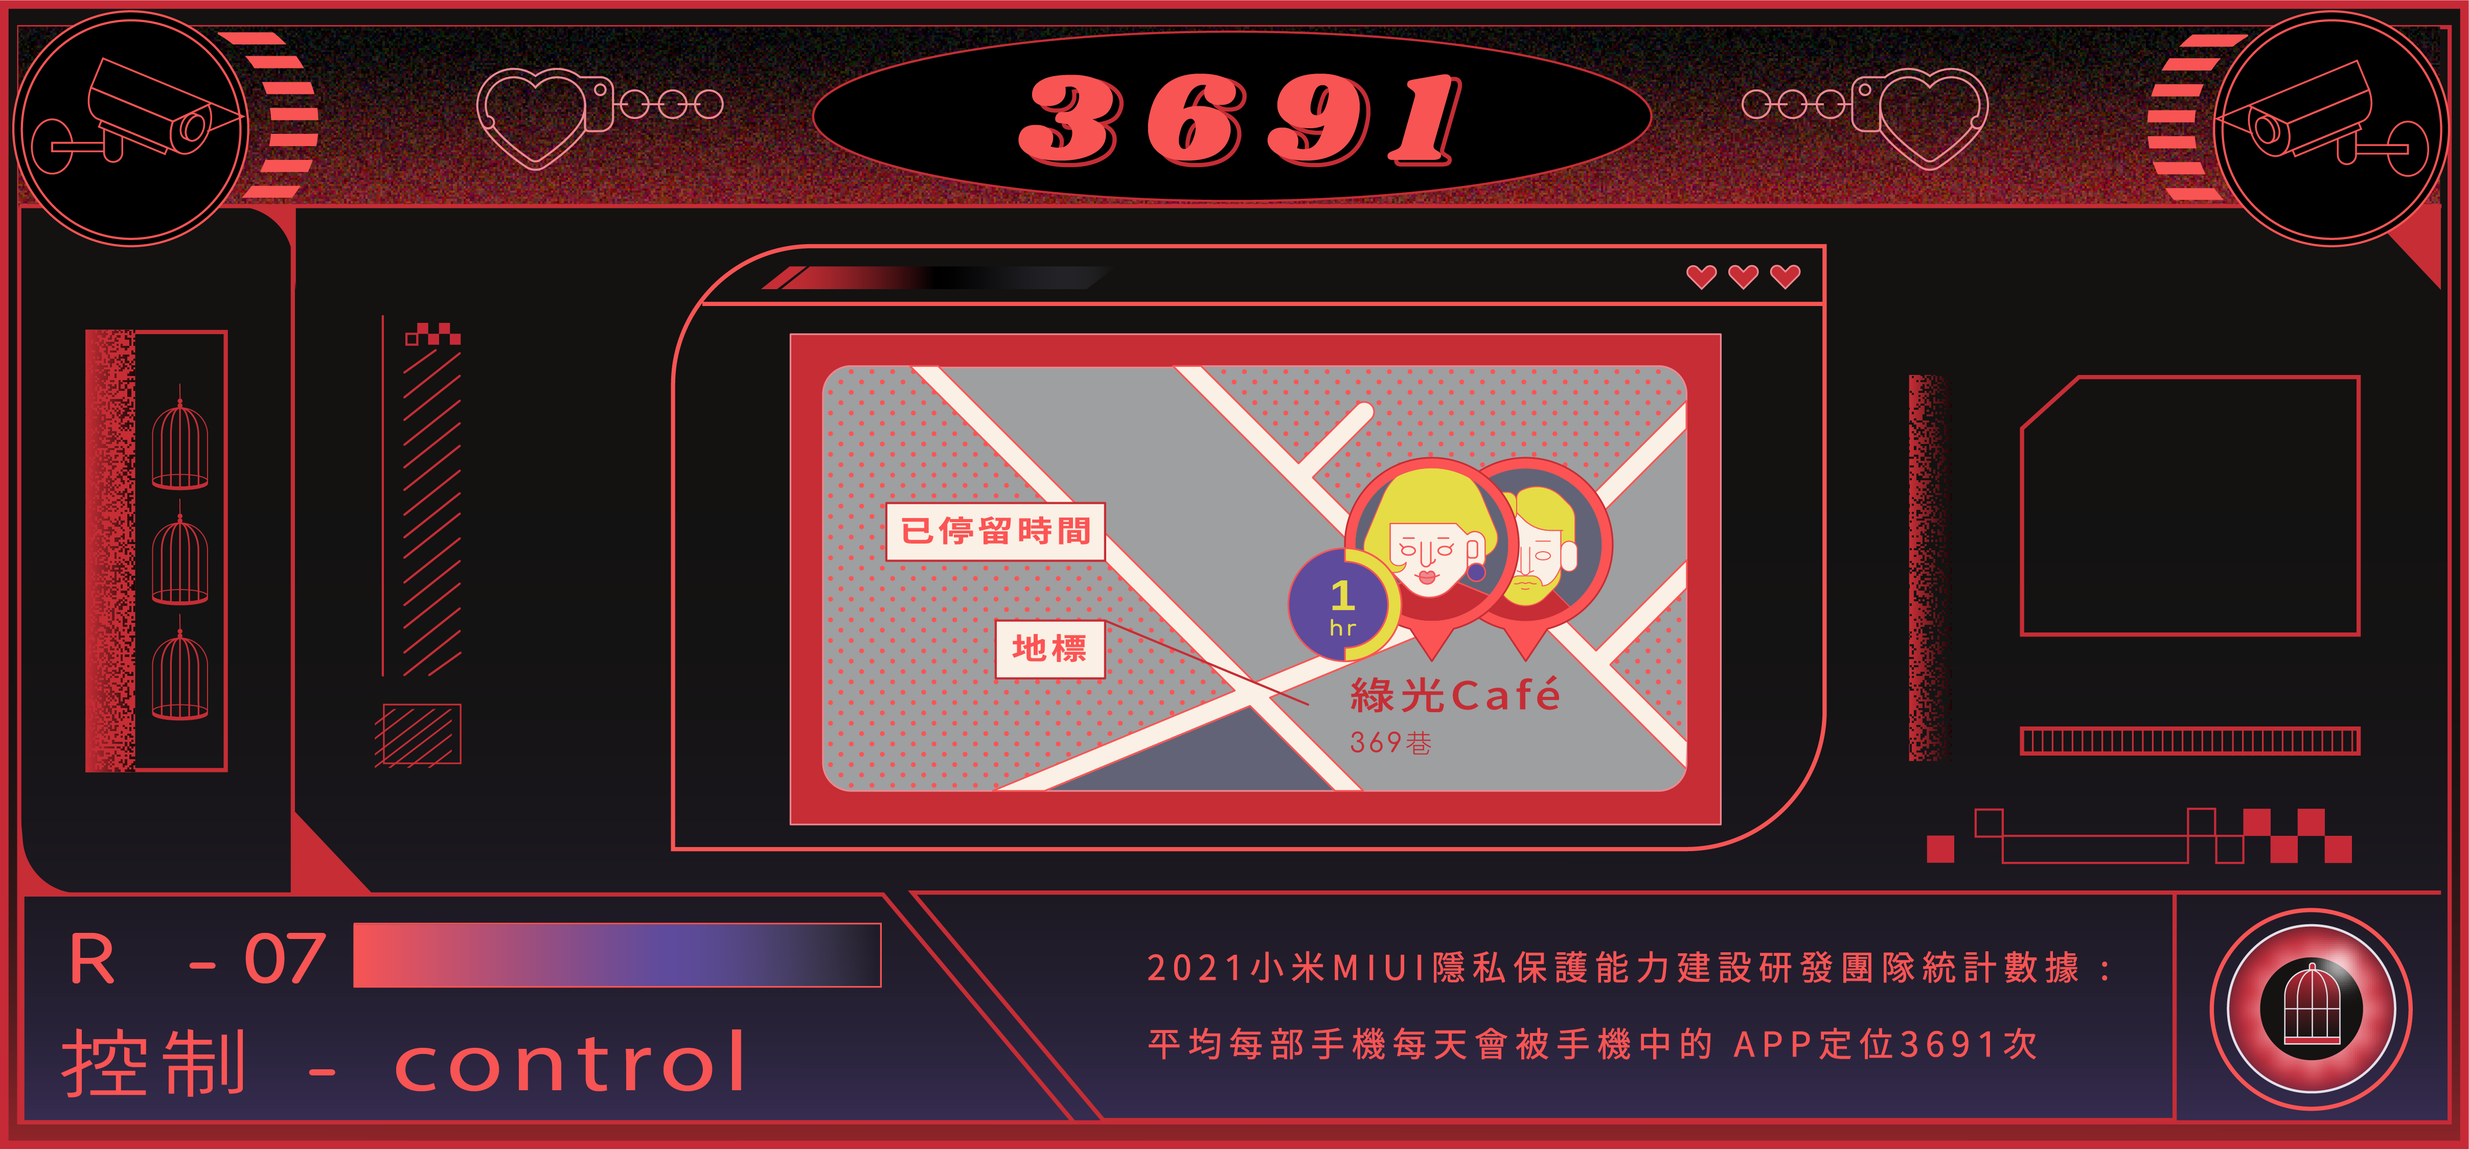
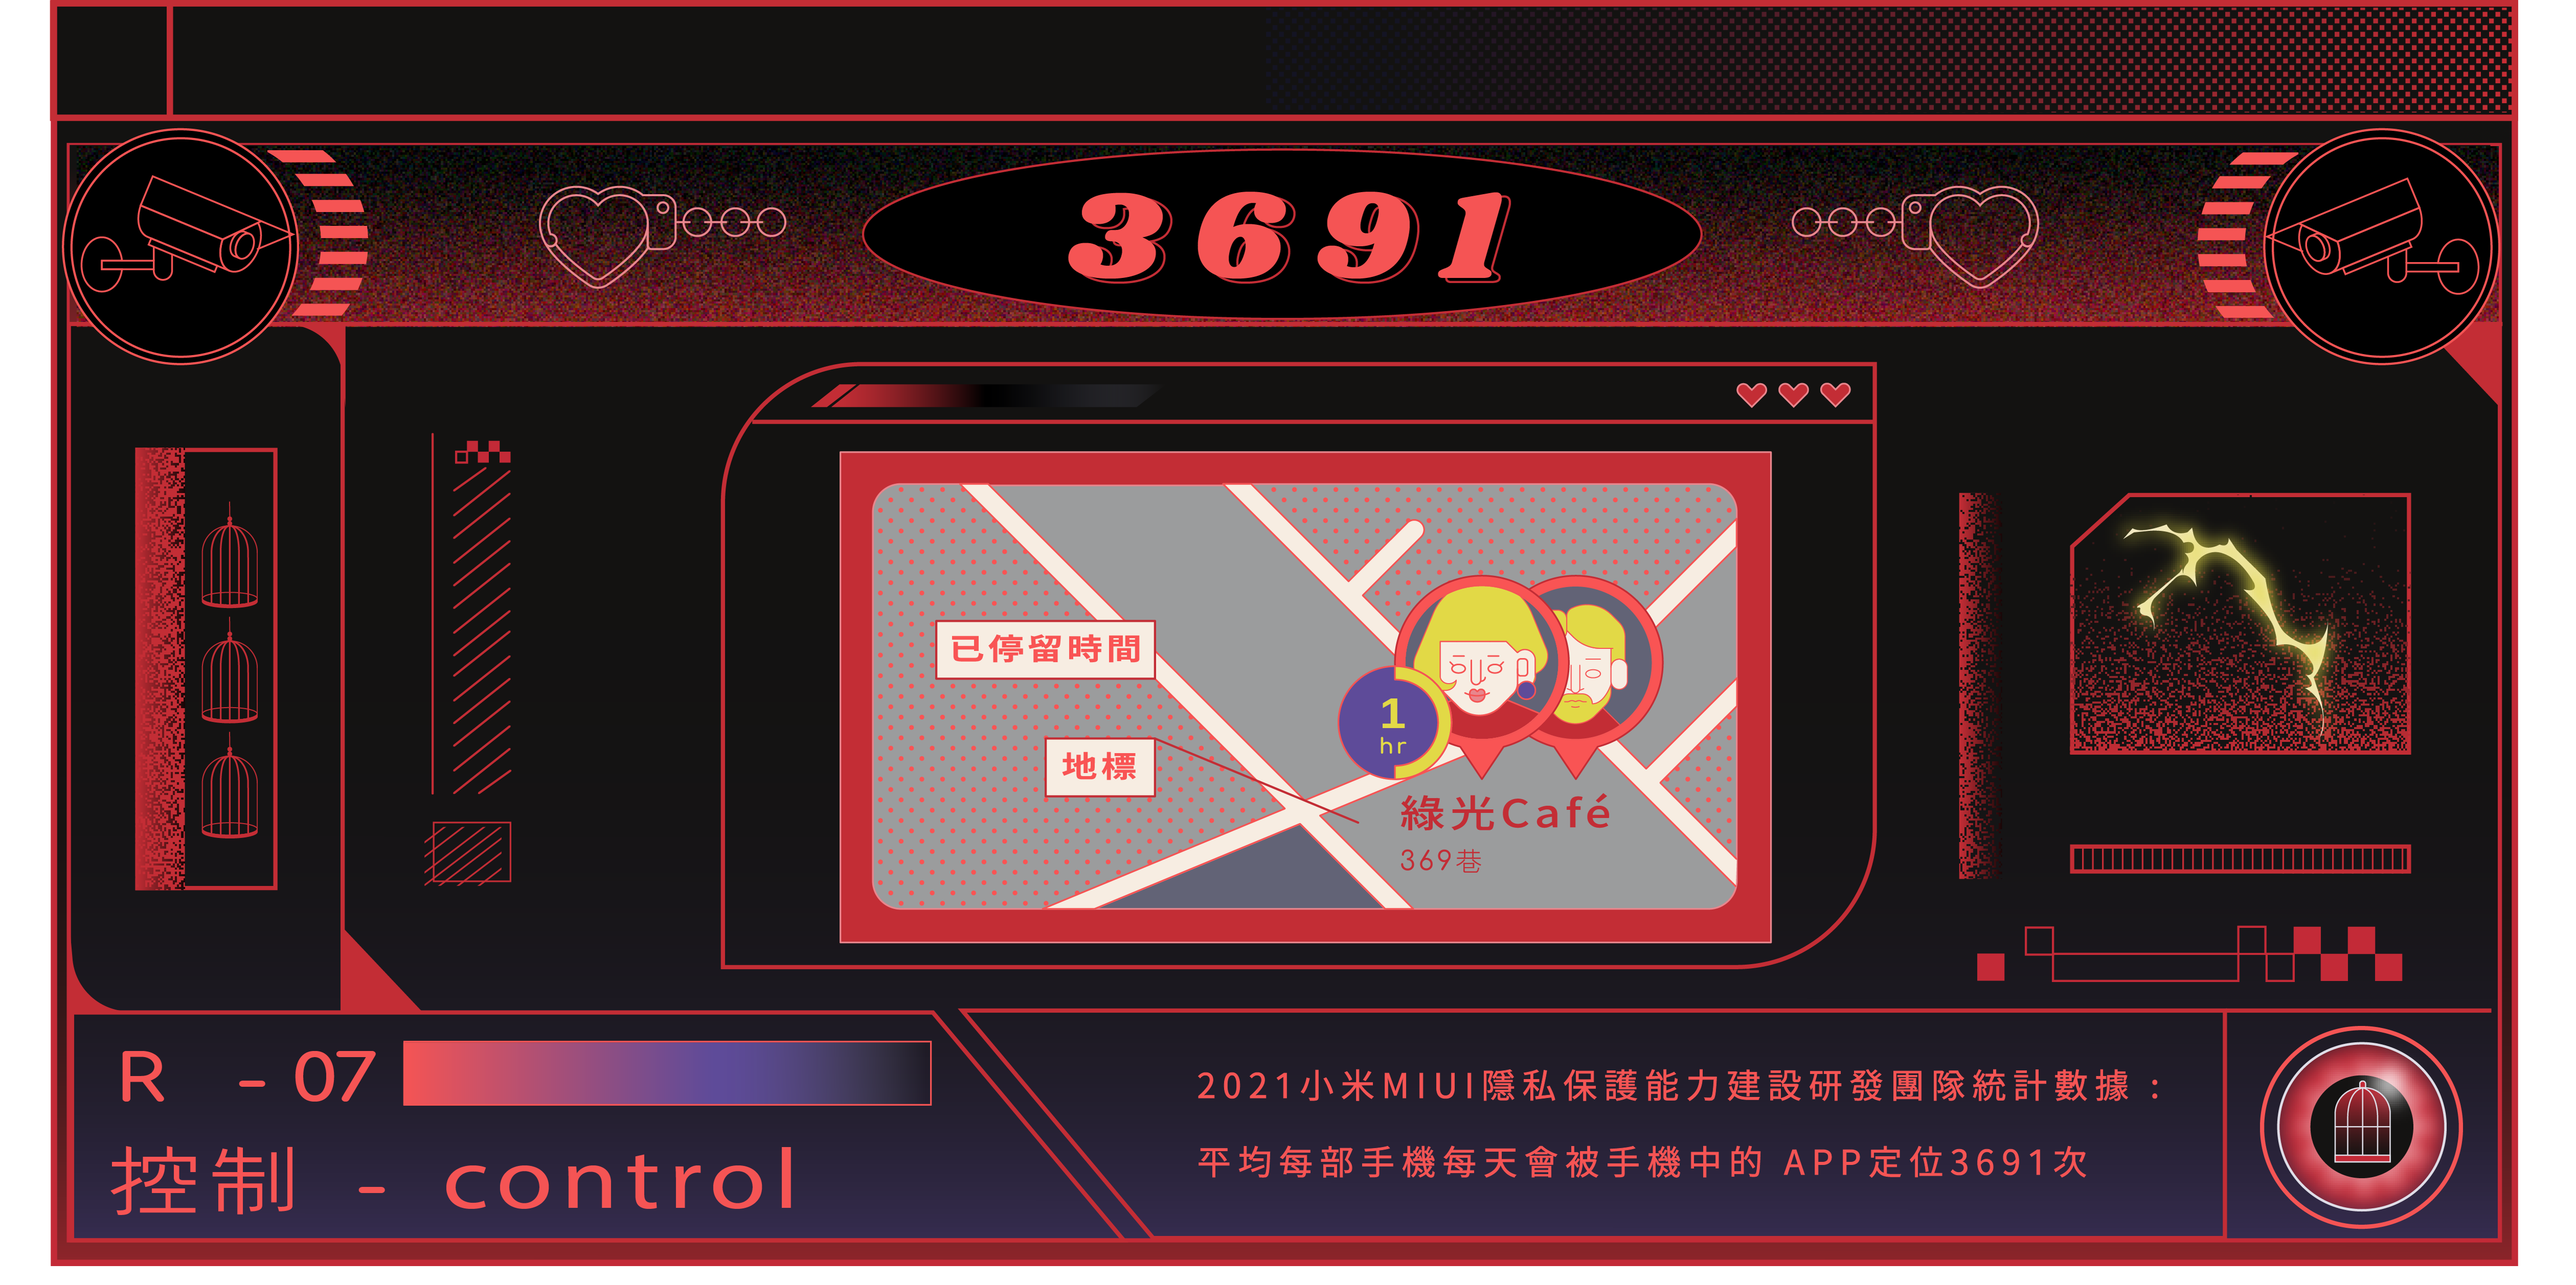
0113

diff --git a/index.html b/index.html
@@ -18,7 +18,7 @@
     <link rel="stylesheet" href="./styles/room07.css">
     <link rel="stylesheet" href="./styles/pass07.css">
 <body>
-      <!-- <img src="./styles/images/open.gif" alt="" class="OpeningAnimation"> -->
+      <img src="./styles/images/open.gif" alt="" class="OpeningAnimation">
       <main id="main">
           <h1 id="t" style="color:#fff"></h1>
           <div class="share">
@@ -708,9 +708,9 @@
 
         <div id="room07pass">
             <div id="room07passTop">
-                <button id="p7-prevPage">回前頁</button>
+                <img src="./styles/images/pass07/pre.png" alt="" id="p7-prevPage">
                 <img src="./styles/images/pass07/top.png" alt="" id="topbg">
-                <img src="./styles/images/pass07/box.png" alt="" id="p7box">
+                <img src="./styles/images/pass07/box2.png" alt="" id="p7box">
             </div>
             <div id="room07passCenter">
                     <img src="./styles/images/pass07/center.png" alt="" id="centerbg">

diff --git a/styles/pass07.css b/styles/pass07.css
@@ -21,16 +21,18 @@
 }
 #room07pass #room07passTop #p7box{
     position: absolute;
-    top: 199px;
-    left:1062px;
-    width:180px;
+    top: 250px;
+    left:1046px;
+    width:170px;
     height: auto;
     cursor: pointer;
 }
 #room07pass #room07passTop #p7-prevPage{
     position: absolute;
-    top: 0;
-    left:0;
+    top: 9px;
+    left:31px;
+    width:50px;
+    cursor: pointer;
 }
 #room07pass #room07passCenter{
     position: relative;
